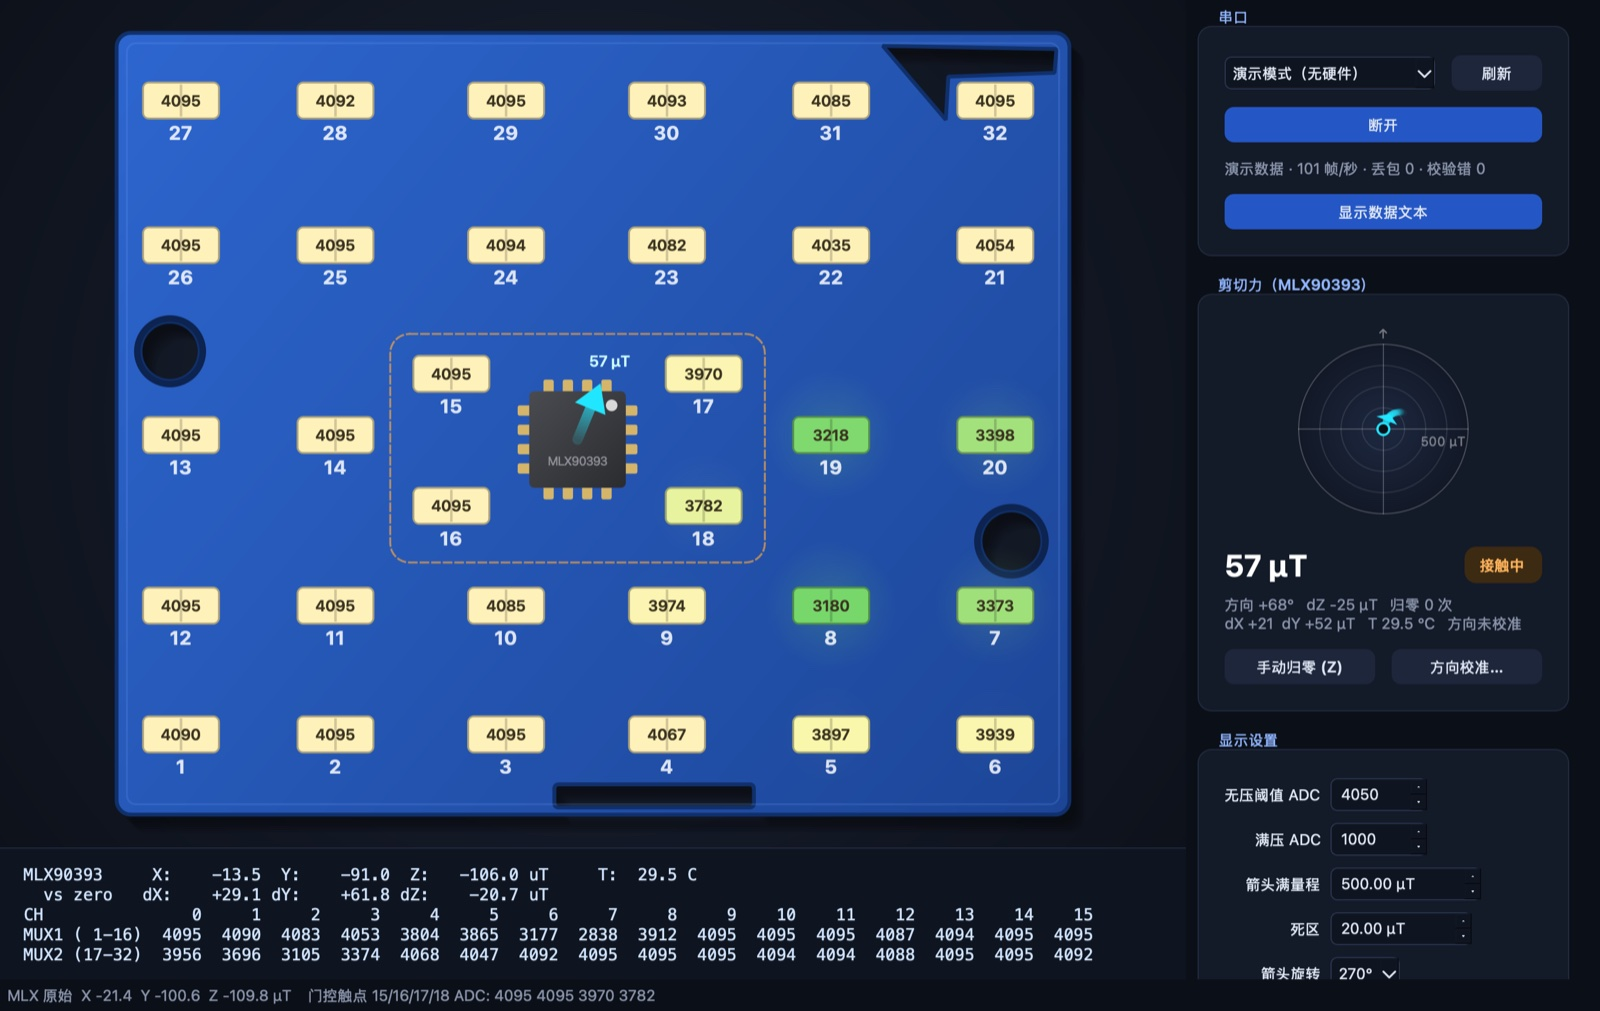
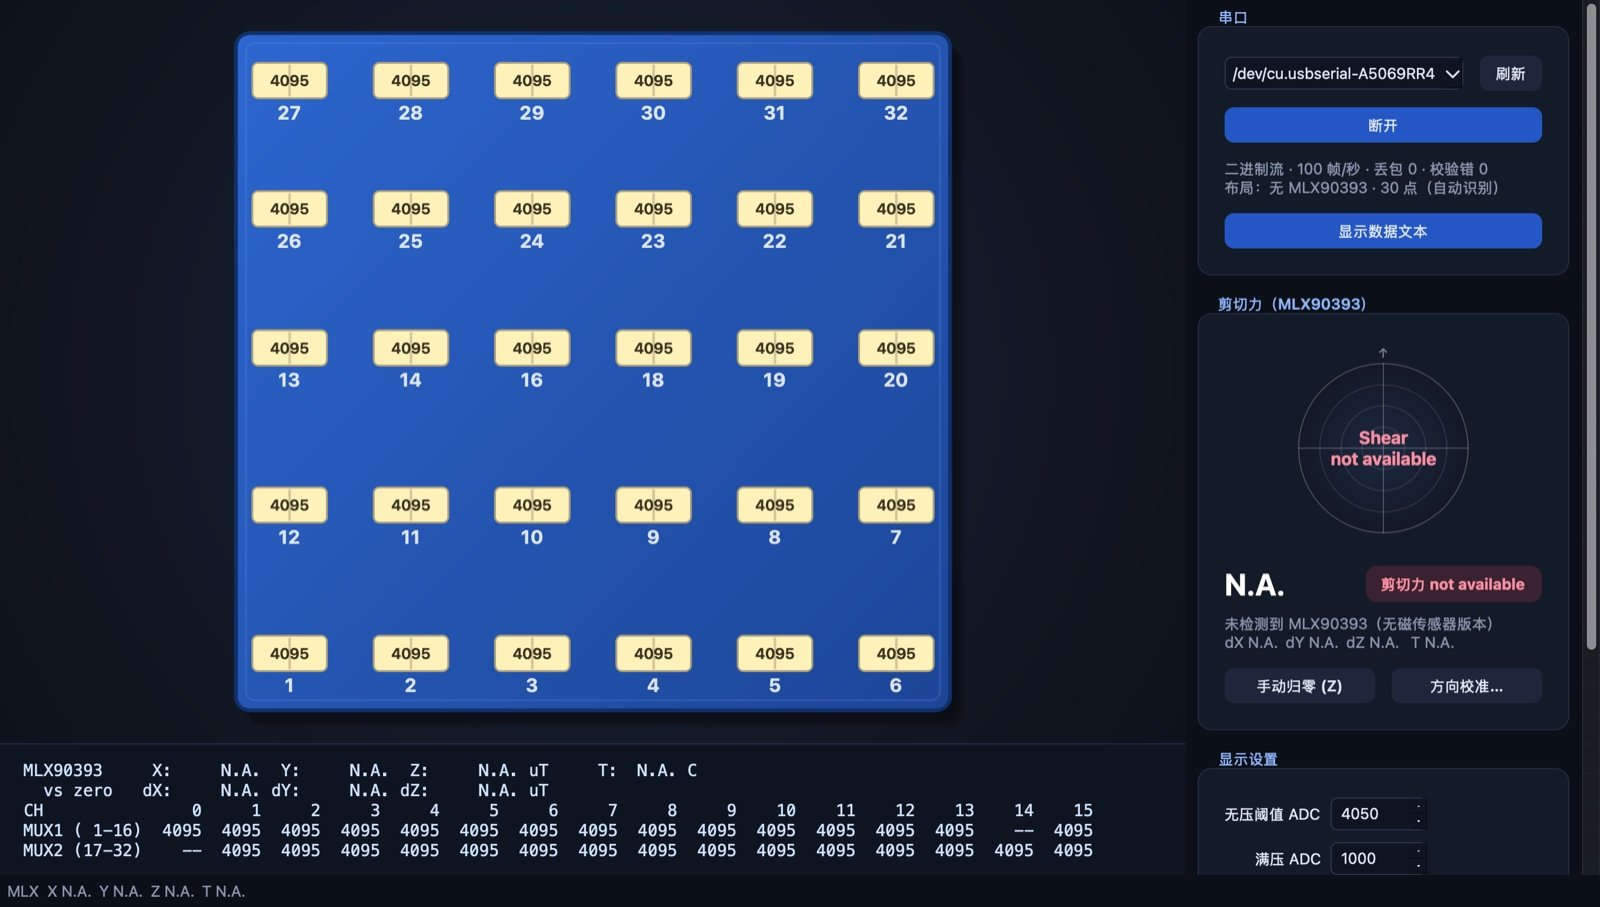
Visualizer: auto-select 30-taxel layout for sensors without MLX90393
When no MLX90393 data arrives for 1 s the PCB view switches to the 6x5
layout without taxels 15 and 17 (MUX1 CH14 and MUX2 CH0 show -- in the
data text); valid MLX data switches back to the 32-taxel layout at once.
Docs and screenshots updated.

diff --git a/visualizer/tactile_viz.py b/visualizer/tactile_viz.py
@@ -73,6 +73,59 @@ def adc_index(label):
     return m * 16 + c
 
 
+INDEX_LABEL = {adc_index(lab): lab for lab in CHANNEL_MAP}
+
+
+class Layout:
+    """One sensor version: board outline, taxel positions and (optionally) U3."""
+
+    def __init__(self, title, size, taxels, chip=None, holes=(), notch=None, slot=None, gate_rect=None):
+        self.title = title
+        self.w, self.h = size
+        self.taxels = taxels
+        self.chip = chip                # U3 centre, None = no MLX90393 on this board
+        self.holes = holes
+        self.notch = notch
+        self.slot = slot
+        self.gate_rect = gate_rect
+        self.unused = set(CHANNEL_MAP) - set(taxels)    # labels without a taxel on this board
+        self._path = None
+
+    def board_path(self):
+        if self._path is None:
+            path = QtGui.QPainterPath()
+            path.addRoundedRect(QRectF(0, 0, self.w, self.h), 22, 22)
+            cut = QtGui.QPainterPath()
+            for x, y, r in self.holes:
+                cut.addEllipse(QPointF(x, y), r, r)
+            if self.notch:
+                cut.addPolygon(QtGui.QPolygonF([QPointF(*pt) for pt in self.notch]))
+                cut.closeSubpath()
+            if self.slot:
+                cut.addRoundedRect(QRectF(*self.slot), 6, 6)
+            self._path = path.subtracted(cut)
+        return self._path
+
+
+LAYOUT_MLX = Layout("带 MLX90393 · 32 点", (BOARD_W, BOARD_H), TAXELS, chip=CHIP_CENTER,
+                    holes=HOLES, notch=NOTCH, slot=SLOT, gate_rect=(425, 468, 582, 355))
+
+# Version without MLX90393: 6 x 5 grid, taxels 15 and 17 removed (MUX1 CH14 and
+# MUX2 CH0 stay unused), same wiring otherwise.
+PLAIN_COLS = [85, 277, 469, 661, 853, 1045]
+PLAIN_ROWS = [
+    (75, (27, 28, 29, 30, 31, 32)),
+    (278, (26, 25, 24, 23, 22, 21)),
+    (498, (13, 14, 16, 18, 19, 20)),
+    (747, (12, 11, 10, 9, 8, 7)),
+    (982, (1, 2, 3, 4, 5, 6)),
+]
+TAXELS_PLAIN = {lab: (PLAIN_COLS[i], y) for y, labs in PLAIN_ROWS for i, lab in enumerate(labs)}
+LAYOUT_PLAIN = Layout("无 MLX90393 · 30 点", (1130, 1072), TAXELS_PLAIN)
+
+LAYOUT_SWITCH_S = 1.0   # MLX missing this long -> switch to the layout without MLX90393
+
+
 # light yellow -> green -> orange -> red, by pressure 0..1
 COLOR_STOPS = [(0.00, (255, 241, 186)),
                (0.35, (92, 206, 108)),
@@ -403,24 +456,12 @@ class PcbView(QtWidgets.QWidget):
         self.hover = None
         self.setMouseTracking(True)
         self.setMinimumSize(400, 330)
-        self._board_path = self._make_board_path()
-
-    @staticmethod
-    def _make_board_path():
-        path = QtGui.QPainterPath()
-        path.addRoundedRect(QRectF(0, 0, BOARD_W, BOARD_H), 22, 22)
-        cut = QtGui.QPainterPath()
-        for x, y, r in HOLES:
-            cut.addEllipse(QPointF(x, y), r, r)
-        cut.addPolygon(QtGui.QPolygonF([QPointF(*pt) for pt in NOTCH]))
-        cut.closeSubpath()
-        cut.addRoundedRect(QRectF(*SLOT), 6, 6)
-        return path.subtracted(cut)
 
     def _geometry(self):
+        L = self.win.layout
         m = 28
-        s = min((self.width() - 2 * m) / BOARD_W, (self.height() - 2 * m) / BOARD_H)
-        return s, (self.width() - BOARD_W * s) / 2, (self.height() - BOARD_H * s) / 2
+        s = min((self.width() - 2 * m) / L.w, (self.height() - 2 * m) / L.h)
+        return s, (self.width() - L.w * s) / 2, (self.height() - L.h * s) / 2
 
     def paintEvent(self, _):
         win = self.win
@@ -431,28 +472,38 @@ class PcbView(QtWidgets.QWidget):
         bg.setColorAt(1, QtGui.QColor("#0b0f17"))
         p.fillRect(self.rect(), bg)
 
+        L = win.layout
+        board = L.board_path()
         s, ox, oy = self._geometry()
         p.translate(ox, oy)
         p.scale(s, s)
 
         # board: shadow, body, edge, pour border
         for i in range(6, 0, -1):
-            p.fillPath(self._board_path.translated(6 + i * 3, 10 + i * 3), QtGui.QColor(0, 0, 0, 22))
-        body = QtGui.QLinearGradient(0, 0, BOARD_W, BOARD_H)
+            p.fillPath(board.translated(6 + i * 3, 10 + i * 3), QtGui.QColor(0, 0, 0, 22))
+        body = QtGui.QLinearGradient(0, 0, L.w, L.h)
         body.setColorAt(0, QtGui.QColor("#2d66cf"))
         body.setColorAt(1, QtGui.QColor("#1c4597"))
-        p.fillPath(self._board_path, body)
+        p.fillPath(board, body)
         p.setPen(QtGui.QPen(QtGui.QColor("#10306b"), 6))
         p.setBrush(Qt.BrushStyle.NoBrush)
-        p.drawPath(self._board_path)
+        p.drawPath(board)
         p.setPen(QtGui.QPen(QtGui.QColor(120, 170, 255, 45), 3))
-        p.drawRoundedRect(QRectF(16, 16, BOARD_W - 32, BOARD_H - 32), 14, 14)
+        p.drawRoundedRect(QRectF(16, 16, L.w - 32, L.h - 32), 14, 14)
         p.setPen(QtGui.QPen(QtGui.QColor("#0d2350"), 10))
-        for x, y, r in HOLES:
+        for x, y, r in L.holes:
             p.drawEllipse(QPointF(x, y), r + 5, r + 5)
+        if L.chip:
+            self._paint_chip(p, L)
+        self._paint_taxels(p, L)
+        if L.chip:
+            self._paint_arrow(p, L)
+        p.end()
 
+    def _paint_chip(self, p, L):
+        win = self.win
         # zero gate area around U3
-        gate_rect = QRectF(520 - 95, 530 - 62, 912 - 520 + 190, 735 - 530 + 150)
+        gate_rect = QRectF(*L.gate_rect)
         if win.mlx is None:
             gate_col = QtGui.QColor(255, 255, 255, 55)
         elif win.est.zeroed:
@@ -464,7 +515,7 @@ class PcbView(QtWidgets.QWidget):
         p.drawRoundedRect(gate_rect, 30, 30)
 
         # chip
-        cx, cy = CHIP_CENTER
+        cx, cy = L.chip
         half = CHIP_SIZE / 2
         p.setPen(Qt.PenStyle.NoPen)
         p.setBrush(QtGui.QColor("#d4b56a"))
@@ -500,21 +551,27 @@ class PcbView(QtWidgets.QWidget):
             p.setPen(QtGui.QColor(255, 200, 210, 200))
             p.drawText(QRectF(cx - 150, cy + 4, 300, 30), Qt.AlignmentFlag.AlignCenter, "shear not available")
 
-        # taxels
-        cfg = win.cfg
-        span = max(1, cfg["noload_adc"] - cfg["full_adc"])
+    @staticmethod
+    def _fonts():
         value_font = QtGui.QFont()
         value_font.setPixelSize(24)
         value_font.setWeight(QtGui.QFont.Weight.DemiBold)
         label_font = QtGui.QFont()
         label_font.setPixelSize(30)
         label_font.setWeight(QtGui.QFont.Weight.Bold)
+        return value_font, label_font
+
+    def _paint_taxels(self, p, L):
+        win = self.win
+        cfg = win.cfg
+        span = max(1, cfg["noload_adc"] - cfg["full_adc"])
+        value_font, label_font = self._fonts()
         levels = {}
-        for lab in TAXELS:
+        for lab in L.taxels:
             v = win.adc[adc_index(lab)]
             levels[lab] = (v, (cfg["noload_adc"] - v) / span)
         p.setPen(Qt.PenStyle.NoPen)
-        for lab, (x, y) in TAXELS.items():     # glows first so they never cover a pad
+        for lab, (x, y) in L.taxels.items():   # glows first so they never cover a pad
             pr = min(levels[lab][1], 1.0)
             if pr > 0.02:
                 r = 70 + 110 * pr
@@ -526,7 +583,7 @@ class PcbView(QtWidgets.QWidget):
                 glow.setColorAt(1, g)
                 p.setBrush(glow)
                 p.drawEllipse(QPointF(x, y), r, r)
-        for lab, (x, y) in TAXELS.items():
+        for lab, (x, y) in L.taxels.items():
             v, pr = levels[lab]
             col = pressure_color(pr)
             rect = QRectF(x - PAD_W / 2, y - PAD_H / 2, PAD_W, PAD_H)
@@ -547,7 +604,11 @@ class PcbView(QtWidgets.QWidget):
             p.setPen(QtGui.QColor(255, 255, 255, 215))
             p.drawText(QRectF(x - 70, y + PAD_H / 2 + 2, 140, 40), Qt.AlignmentFlag.AlignCenter, str(lab))
 
-        # shear arrow from U3
+    def _paint_arrow(self, p, L):
+        """Shear arrow from U3."""
+        win, cfg = self.win, self.win.cfg
+        cx, cy = L.chip
+        value_font, _ = self._fonts()
         sx, sy = to_screen(*win.est.smooth, cfg)
         mag = math.hypot(sx, sy)
         if win.mlx is not None and mag > cfg["deadband_ut"]:
@@ -562,13 +623,13 @@ class PcbView(QtWidgets.QWidget):
             p.setPen(QtGui.QPen(QtGui.QColor(33, 230, 255, 200), 4))
             p.setBrush(QtGui.QColor(33, 230, 255, 70))
             p.drawEllipse(QPointF(cx, cy), 14, 14)
-        p.end()
 
     def mouseMoveEvent(self, e):
         s, ox, oy = self._geometry()
         bx, by = (e.position().x() - ox) / s, (e.position().y() - oy) / s
         hit = None
-        for lab, (x, y) in TAXELS.items():
+        L = self.win.layout
+        for lab, (x, y) in L.taxels.items():
             if abs(bx - x) <= PAD_W / 2 + 10 and abs(by - y) <= PAD_H / 2 + 10:
                 hit = lab
         self.hover = hit
@@ -577,7 +638,7 @@ class PcbView(QtWidgets.QWidget):
         else:
             m, c = CHANNEL_MAP[hit]
             v = self.win.adc[adc_index(hit)]
-            tag = "（MLX 归零门控）" if hit in ZERO_GATE_LABELS else ""
+            tag = "（MLX 归零门控）" if L.chip and hit in ZERO_GATE_LABELS else ""
             QtWidgets.QToolTip.showText(e.globalPosition().toPoint(),
                                         f"触点 {hit}{tag}\nMUX{m + 1} CH{c}\nADC {v}", self)
         self.update()
@@ -947,6 +1008,8 @@ class MainWindow(QtWidgets.QMainWindow):
         self.est = ShearEstimator()
         self.frame_times = deque(maxlen=300)
         self.cal_dialog = None
+        self.layout = LAYOUT_MLX
+        self._na_since = None       # first frame of the current run without MLX data
 
         self.pcb = PcbView(self)
         self.data_text = self._build_data_text()
@@ -1084,6 +1147,10 @@ class MainWindow(QtWidgets.QMainWindow):
         self.data_text.setVisible(on)
         self.set_cfg("show_text", on)
 
+    def _adc_cell(self, i):
+        """6-char ADC column; '--' for channels without a taxel on the current board."""
+        return f"{'--':>6}" if INDEX_LABEL[i] in self.layout.unused else f"{self.adc[i]:>6}"
+
     def _format_data_text(self):
         def num(v, fmt):
             return format(v, fmt) if v is not None else format("N.A.", ">" + fmt.lstrip("+").split(".")[0])
@@ -1097,8 +1164,8 @@ class MainWindow(QtWidgets.QMainWindow):
             f"     T:{num(t, '6.1f')} C",
             f"  vs zero   dX:{num(dx, '+9.1f')} dY:{num(dy, '+9.1f')} dZ:{num(dz, '+9.1f')} uT",
             "CH          " + "".join(f"{c:>6}" for c in range(16)),
-            "MUX1 ( 1-16)" + "".join(f"{v:>6}" for v in self.adc[:16]),
-            "MUX2 (17-32)" + "".join(f"{v:>6}" for v in self.adc[16:]),
+            "MUX1 ( 1-16)" + "".join(self._adc_cell(i) for i in range(16)),
+            "MUX2 (17-32)" + "".join(self._adc_cell(i) for i in range(16, 32)),
         ]
         return "\n".join(lines)
 
@@ -1134,6 +1201,7 @@ class MainWindow(QtWidgets.QMainWindow):
         self.frame_times.clear()
         self.est = ShearEstimator()
         self.mlx = None
+        self._na_since = None
         sink = self.frames.append
         self.source = DemoSource(sink) if port == DEMO_PORT else SerialSource(port, sink)
         self.source.start()
@@ -1144,6 +1212,22 @@ class MainWindow(QtWidgets.QMainWindow):
 
     def manual_zero(self):
         self.est.manual_zero(self.mlx)
+
+    def _pick_layout(self, t, mlx):
+        """MLX data -> board with MLX90393 at once; no MLX data for LAYOUT_SWITCH_S ->
+        board without it (the firmware retries detection every second)."""
+        if mlx is not None:
+            self._na_since = None
+            new = LAYOUT_MLX
+        else:
+            if self._na_since is None:
+                self._na_since = t
+            if t - self._na_since < LAYOUT_SWITCH_S:
+                return
+            new = LAYOUT_PLAIN
+        if new is not self.layout:
+            self.layout = new
+            self.pcb.hover = None
 
     def open_calibration(self):
         if self.cal_dialog is None:
@@ -1162,6 +1246,7 @@ class MainWindow(QtWidgets.QMainWindow):
             released = all(adc[i] >= self.cfg["noload_adc"] for i in gate)
             self.est.update(t, mlx, released)
             self.frame_times.append(t)
+            self._pick_layout(t, mlx)
             if self.cal_dialog is not None:
                 self.cal_dialog.feed(mlx)
         self._update_status()
@@ -1191,7 +1276,8 @@ class MainWindow(QtWidgets.QMainWindow):
             mode = "文本模式（固件未更新？）"
         else:
             mode = "等待数据…"
-        self.conn_label.setText(f"{mode} · {rate} 帧/秒 · 丢包 {src.lost} · 校验错 {src.bad}")
+        self.conn_label.setText(f"{mode} · {rate} 帧/秒 · 丢包 {src.lost} · 校验错 {src.bad}\n"
+                                f"布局：{self.layout.title}（自动识别）")
 
         if self.mlx is None:
             self.mag_label.setText("N.A.")

diff --git a/docs/VISUALIZER_GUIDE.md b/docs/VISUALIZER_GUIDE.md
@@ -35,7 +35,13 @@ python -m venv .venv
 > 串口一次只能被一个程序打开：使用可视化程序前，先关闭 VS Code / `idf.py monitor` 的串口监视器。
 > A serial port can only be opened by one program at a time: close the VS Code / `idf.py monitor` serial monitor first.
 
-## 2. 连接 / Connecting
+## 2. 自动识别传感器版本 / Automatic sensor version
+
+程序根据有没有 MLX90393 数据自动切换 PCB 布局，不需要任何设置：收到有效的 MLX 数据，立即显示**带 MLX90393 的 32 点布局**（带 U3 和剪切力箭头）；连续 1 秒没有 MLX 数据，切换为**不带 MLX90393 的 30 点布局**（6 × 5，无 15、17 号触点，数据文本中 MUX1 CH14 和 MUX2 CH0 显示 `--`）。当前布局显示在串口状态行。布局定义见 `tactile_viz.py` 中的 `LAYOUT_MLX` 和 `LAYOUT_PLAIN`。
+
+The PCB drawing follows the sensor version automatically, nothing to configure: valid MLX data switches immediately to the **32-taxel layout with MLX90393** (U3 and shear arrow); 1 s without MLX data switches to the **30-taxel layout without MLX90393** (6 × 5, taxels 15 and 17 removed; MUX1 CH14 and MUX2 CH0 show `--` in the data text). The active layout is shown in the serial status line. The layouts are `LAYOUT_MLX` and `LAYOUT_PLAIN` in `tactile_viz.py`.
+
+## 2.1 连接 / Connecting
 
 在右上角选择串口（`usbserial` / `usbmodem` 设备排在最前），点 **连接**。程序向固件发送 `b`，固件开始以 100 Hz 发送二进制数据包；断开时程序发送 `t`，固件恢复文本输出。状态行显示：
 
@@ -121,9 +127,9 @@ Settings are saved to `visualizer/viz_config.json` (not tracked by git); delete 
 
 ## 7. 修改映射 / Changing the channel map
 
-触点位置和通道对应关系都在 `tactile_viz.py` 开头：`TAXELS`（编号 → PCB 坐标）、`CHANNEL_MAP`（编号 → MUX 与通道）、`ZERO_GATE_LABELS`（自动归零用的触点）。
+触点位置和通道对应关系都在 `tactile_viz.py` 开头：`TAXELS` / `TAXELS_PLAIN`（编号 → PCB 坐标，分别对应两个版本）、`CHANNEL_MAP`（编号 → MUX 与通道）、`ZERO_GATE_LABELS`（自动归零用的触点）。
 
-Taxel positions and the channel map are defined at the top of `tactile_viz.py`: `TAXELS` (label → PCB position), `CHANNEL_MAP` (label → MUX and channel) and `ZERO_GATE_LABELS` (taxels used for the auto zero).
+Taxel positions and the channel map are defined at the top of `tactile_viz.py`: `TAXELS` / `TAXELS_PLAIN` (label → PCB position for the two versions), `CHANNEL_MAP` (label → MUX and channel) and `ZERO_GATE_LABELS` (taxels used for the auto zero).
 
 ## 8. 常见问题 / Troubleshooting
 
